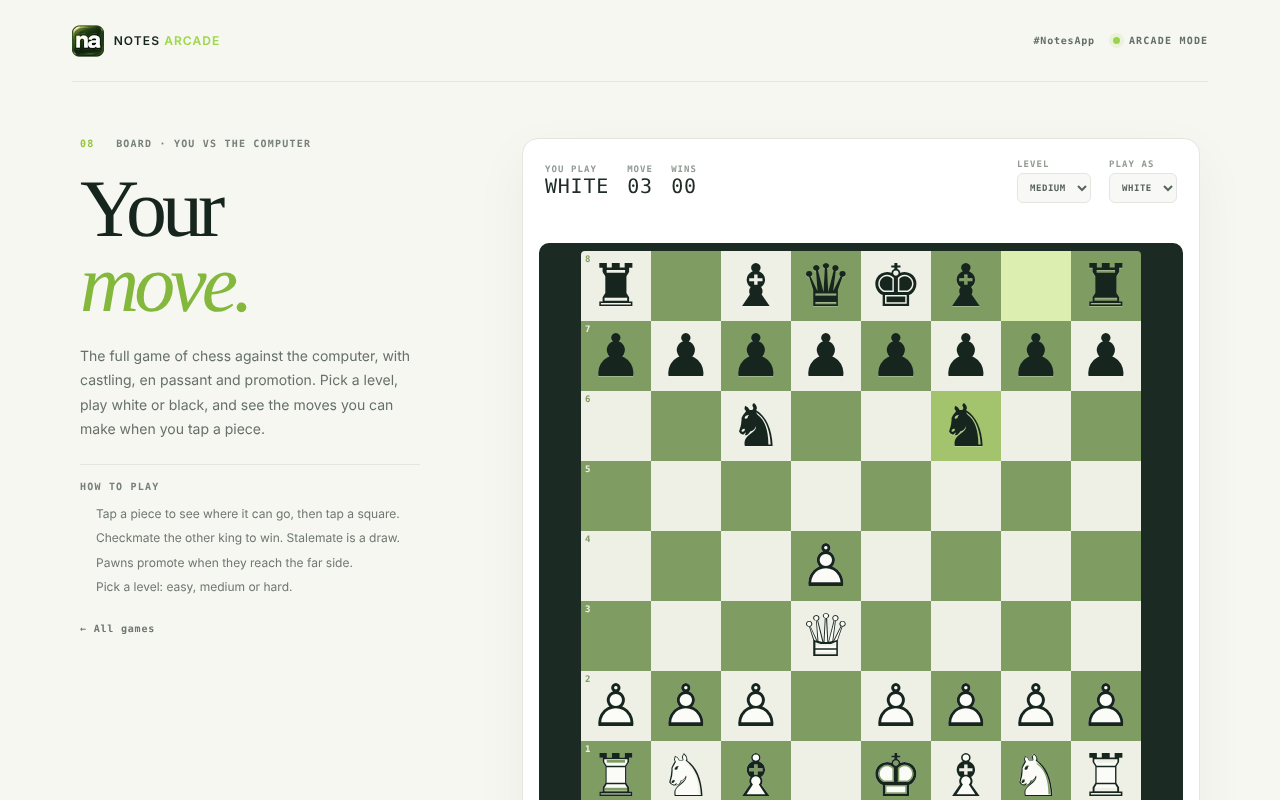
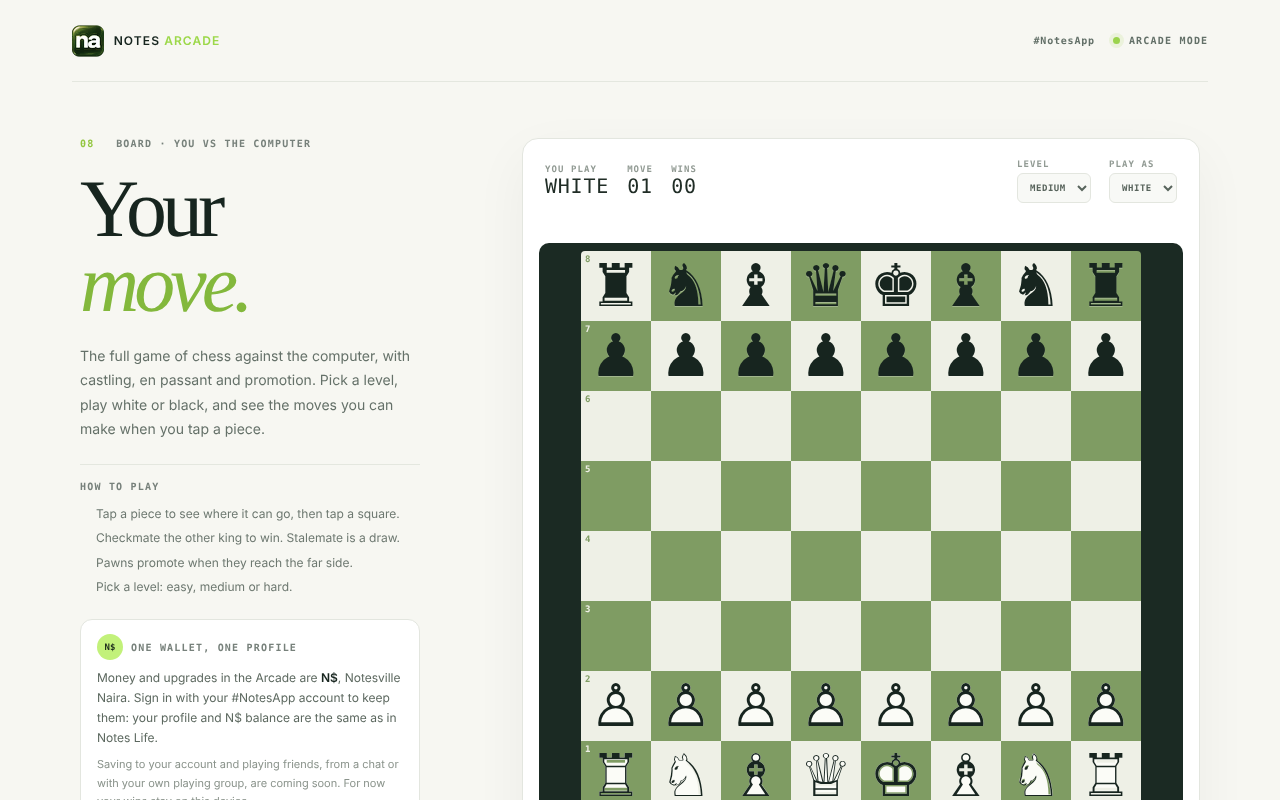
Notes Arcade: money in N$, one #NotesApp wallet and profile note
Claude-Session: https://claude.ai/code/session_01STQhMwWyavn5g4qzYGwLEX

diff --git a/lib/arcade/landlord.ts b/lib/arcade/landlord.ts
@@ -1,5 +1,5 @@
 // Naija Landlord: our own property-trading game on a 32-square loop of Nigerian neighbourhoods and markets.
-// Pure logic, no React or DOM. Money is in thousands of naira (1 = ₦1k). Every apply returns a new state.
+// Pure logic, no React or DOM. Money is in thousands of naira (1 = N$1k). Every apply returns a new state.
 
 export type Rng = () => number;
 
@@ -28,7 +28,7 @@ export type SquareKind = "start" | "plot" | "park" | "market" | "fortune" | "tax
 export type Square = { name: string; short: string; kind: SquareKind; city?: CityId; price?: number; rent?: number };
 
 const plot = (name: string, short: string, city: CityId, price: number, rent: number): Square => ({ name, short, kind: "plot", city, price, rent });
-// Park rent is ₦30k per park the owner holds: ₦30k, ₦60k or ₦90k.
+// Park rent is N$30k per park the owner holds: N$30k, N$60k or N$90k.
 const park = (name: string): Square => ({ name, short: "Danfo Park", kind: "park", price: 150, rent: 30 });
 
 // Clockwise from the top-left corner, cheap to dear. Corners: Start, Traffic Hold-up, Rest Stop, Tax office.
@@ -83,28 +83,28 @@ export type CardEffect =
 export type Card = { text: string; effect: CardEffect };
 
 export const MARKET_CARDS: Card[] = [
-  { text: "NEPA brought light all week: collect ₦50k", effect: { kind: "collect", amount: 50 } },
-  { text: "Tyre burst on Third Mainland Bridge: pay ₦30k", effect: { kind: "pay", amount: 30 } },
-  { text: "Your skit went viral: collect ₦100k", effect: { kind: "collect", amount: 100 } },
-  { text: "Owambe this weekend, aso ebi money: pay ₦40k", effect: { kind: "pay", amount: 40 } },
-  { text: "An old customer finally paid you: collect ₦60k", effect: { kind: "collect", amount: 60 } },
-  { text: "Generator needs servicing: pay ₦25k", effect: { kind: "pay", amount: 25 } },
+  { text: "NEPA brought light all week: collect N$50k", effect: { kind: "collect", amount: 50 } },
+  { text: "Tyre burst on Third Mainland Bridge: pay N$30k", effect: { kind: "pay", amount: 30 } },
+  { text: "Your skit went viral: collect N$100k", effect: { kind: "collect", amount: 100 } },
+  { text: "Owambe this weekend, aso ebi money: pay N$40k", effect: { kind: "pay", amount: 40 } },
+  { text: "An old customer finally paid you: collect N$60k", effect: { kind: "collect", amount: 60 } },
+  { text: "Generator needs servicing: pay N$25k", effect: { kind: "pay", amount: 25 } },
   { text: "Hop on a danfo back to Start: collect your salary", effect: { kind: "move", to: 0 } },
-  { text: "Plumber fixed every tap: pay ₦10k per flat", effect: { kind: "perFlat", amount: 10 } },
-  { text: "Bulk buy at Alaba for your tenants: pay ₦40k", effect: { kind: "pay", amount: 40 } },
+  { text: "Plumber fixed every tap: pay N$10k per flat", effect: { kind: "perFlat", amount: 10 } },
+  { text: "Bulk buy at Alaba for your tenants: pay N$40k", effect: { kind: "pay", amount: 40 } },
 ];
 
 export const FORTUNE_CARDS: Card[] = [
-  { text: "It's your birthday: everyone sends you ₦20k", effect: { kind: "each", amount: 20 } },
-  { text: "Group chat contribution: pay each player ₦15k", effect: { kind: "each", amount: -15 } },
-  { text: "Landlord of the year award: collect ₦80k", effect: { kind: "collect", amount: 80 } },
+  { text: "It's your birthday: everyone sends you N$20k", effect: { kind: "each", amount: 20 } },
+  { text: "Group chat contribution: pay each player N$15k", effect: { kind: "each", amount: -15 } },
+  { text: "Landlord of the year award: collect N$80k", effect: { kind: "collect", amount: 80 } },
   { text: "Heavy rain flooded the road: go back 3 squares", effect: { kind: "back", steps: 3 } },
   { text: "Gridlock on the expressway: go to Traffic Hold-up", effect: { kind: "holdup" } },
   { text: "A friend gives you a lift to Lekki", effect: { kind: "move", to: LEKKI } },
-  { text: "Bank alert! A client paid you ₦70k", effect: { kind: "collect", amount: 70 } },
-  { text: "Paint your flats for the festive season: pay ₦20k per flat", effect: { kind: "perFlat", amount: 20 } },
-  { text: "You won the jollof cook-off: collect ₦40k", effect: { kind: "collect", amount: 40 } },
-  { text: "Your Ariaria shoe order came through: collect ₦80k", effect: { kind: "collect", amount: 80 } },
+  { text: "Bank alert! A client paid you N$70k", effect: { kind: "collect", amount: 70 } },
+  { text: "Paint your flats for the festive season: pay N$20k per flat", effect: { kind: "perFlat", amount: 20 } },
+  { text: "You won the jollof cook-off: collect N$40k", effect: { kind: "collect", amount: 40 } },
+  { text: "Your Ariaria shoe order came through: collect N$80k", effect: { kind: "collect", amount: 80 } },
 ];
 
 export type Player = { name: string; colour: string; human: boolean; cash: number; pos: number; out: boolean; held: boolean };
@@ -148,12 +148,12 @@ export function createGame(_rng: Rng = Math.random, playerCount = 4): State {
     winner: null,
     endReason: null,
     lastCard: null,
-    log: ["New game. Everyone starts with ₦1,500k."],
+    log: ["New game. Everyone starts with N$1,500k."],
   };
 }
 
 export function formatNaira(k: number): string {
-  return `₦${k.toLocaleString("en-GB")}k`;
+  return `N$${k.toLocaleString("en-GB")}k`;
 }
 
 function clone(s: State): State {

diff --git a/components/games/ArcadeShell.tsx b/components/games/ArcadeShell.tsx
@@ -24,6 +24,7 @@ export default function ArcadeShell({ game, children }: { game: ArcadeGame; inde
             <summary>HOW TO PLAY</summary>
             <ul>{game.howTo.map((h) => <li key={h}>{h}</li>)}</ul>
           </details>
+          <ArcadeWalletNote />
           <a className="arc-back" href="/arcade">← All games</a>
         </div>
         <div className="arc-main">
@@ -122,5 +123,28 @@ export function ArcadeGallery({ game }: { game: ArcadeGame }) {
         .arc-gallery .arc-label { display:block; color:#929b94; font:600 9px ui-monospace,monospace; letter-spacing:.12em; }
       `}</style>
     </>
+  );
+}
+
+// Arcade money and the #NotesApp account (owner, 20 Nov 2026): every upgrade or money in the Arcade is N$ (Notesville Naira), saved
+// with a #NotesApp login, the same profile and wallet as Notes Life. Saving to the account and player-vs-player come later: until then
+// scores and wins stay in the browser, and this note says so.
+export function ArcadeWalletNote() {
+  return (
+    <div className="arc-wallet">
+      <p className="arc-wallet-title"><span className="arc-wallet-coin" aria-hidden>N$</span> ONE WALLET, ONE PROFILE</p>
+      <p>Money and upgrades in the Arcade are <strong>N$</strong>, Notesville Naira. Sign in with your #NotesApp account to keep them: your profile and N$ balance are the same as in Notes Life.</p>
+      <p className="arc-wallet-soon">Saving to your account and playing friends, from a chat or with your own playing group, are coming soon. For now your wins stay on this device.</p>
+      <a className="arc-wallet-link" href="/login?next=/arcade">SIGN IN WITH #NOTESAPP ↗</a>
+      <style jsx global>{`
+        .arc-wallet { max-width:340px; margin-top:22px; padding:14px 16px; border:1px solid #e3e6df; border-radius:12px; background:#fff; color:#5c685f; font-size:12px; line-height:1.65; }
+        .arc-wallet p { margin:0 0 8px; }.arc-wallet strong { color:#17251f; }
+        .arc-wallet-title { display:flex; align-items:center; gap:8px; color:#77817b; font:600 10px ui-monospace,monospace; letter-spacing:.12em; }
+        .arc-wallet-coin { display:inline-grid; place-items:center; width:26px; height:26px; border-radius:50%; background:#c2f17a; color:#20301e; font:800 9px ui-monospace,monospace; letter-spacing:0; }
+        .arc-wallet-soon { color:#8a938b; font-size:11px; }
+        .arc-wallet-link { color:#5f9a22; font:700 10px ui-monospace,monospace; letter-spacing:.08em; text-decoration:none; }.arc-wallet-link:hover { color:#17251f; }
+        @media(max-width:820px) { .arc-wallet { max-width:none; } }
+      `}</style>
+    </div>
   );
 }

diff --git a/components/games/ArcadeHome.tsx b/components/games/ArcadeHome.tsx
@@ -2,7 +2,7 @@
 
 import { ARCADE_GAMES } from "@/lib/arcade/catalogue";
 import { CITY_CARDS } from "@/lib/life/catalog";
-import { ArcadeFooter, ArcadeStyles, ArcadeTopbar } from "./ArcadeShell";
+import { ArcadeFooter, ArcadeStyles, ArcadeTopbar, ArcadeWalletNote } from "./ArcadeShell";
 
 // The Notes Arcade home: every game as a card with its screenshot, what it is and who plays. app/(arcade)/arcade/page.tsx.
 export default function ArcadeHome() {
@@ -12,7 +12,10 @@ export default function ArcadeHome() {
       <div className="arch-hero">
         <p className="arc-kicker"><span>{String(ARCADE_GAMES.length).padStart(2, "0")}</span> &nbsp; GAMES · FREE · IN YOUR BROWSER</p>
         <h1>Pass the time,<br /><em>play a game.</em></h1>
-        <p className="arc-description">Board games, card games and the classics, made for #NotesApp. No download, no sign-in: pick one and play.</p>
+        <div className="arch-hero-row">
+          <p className="arc-description">Board games, card games and the classics, made for #NotesApp. No download: pick one and play, and sign in to keep your N$ and progress.</p>
+          <ArcadeWalletNote />
+        </div>
       </div>
       <ul className="arch-grid">
         {ARCADE_GAMES.map((g, i) => (
@@ -78,6 +81,7 @@ export default function ArcadeHome() {
         .arch-hero { width:min(1120px,100%); margin:0 auto; padding:clamp(36px,7vh,72px) 0 32px; }
         .arch-hero h1 { margin:0; font:500 clamp(48px,6.4vw,84px)/.95 Georgia,'Times New Roman',serif; letter-spacing:-.06em; }.arch-hero h1 em { color:var(--arc-deep); font-weight:500; }
         .arch-hero .arc-description { max-width:460px; }
+        .arch-hero-row { display:flex; flex-wrap:wrap; align-items:flex-end; justify-content:space-between; gap:12px 32px; }.arch-hero-row .arc-wallet { max-width:420px; margin-top:0; }
         .arch-grid { display:grid; grid-template-columns:repeat(auto-fill,minmax(250px,1fr)); gap:18px; width:min(1120px,100%); margin:0 auto; padding:0 0 64px; list-style:none; }
         .arch-card { display:flex; flex-direction:column; height:100%; overflow:hidden; border:1px solid #e3e6df; border-radius:16px; background:#fff; color:inherit; text-decoration:none; box-shadow:0 12px 40px #17251f0a; transition:transform .15s,box-shadow .15s; }
         .arch-card:hover { transform:translateY(-3px); box-shadow:0 18px 55px #17251f14; }.arch-card:focus-visible { outline:2px solid var(--arc-deep); outline-offset:3px; }

diff --git a/tests/arcade/landlord.test.ts b/tests/arcade/landlord.test.ts
@@ -95,7 +95,7 @@ assert.equal(rentFor(r, ringRoad), 200);
 const paid = applyAction(r, { type: "roll" }, dice(4, 5));
 assert.equal(paid.players[0].cash, START_CASH - 200);
 assert.equal(paid.players[1].cash, START_CASH + 200);
-// Parks: ₦30k, ₦60k or ₦90k for one, two or three parks.
+// Parks: N$30k, N$60k or N$90k for one, two or three parks.
 const parks = BOARD.flatMap((b, i) => (b.kind === "park" ? [i] : []));
 assert.equal(parks.length, 3);
 assert.equal(rentFor(withOwner(g0, [parks[0]], 2), parks[0]), 30);
@@ -162,7 +162,7 @@ const card = (text: RegExp) => { const k = FORTUNE_CARDS.findIndex((c) => text.t
 const lift = applyAction(atFour, { type: "roll" }, dice(1, 2, card(/lift to Lekki/)));
 assert.equal(lift.players[0].pos, LEKKI);
 assert.equal(lift.phase, "buy");
-const bday = applyAction(atFour, { type: "roll" }, dice(1, 2, card(/birthday/))); // everyone sends ₦20k
+const bday = applyAction(atFour, { type: "roll" }, dice(1, 2, card(/birthday/))); // everyone sends N$20k
 assert.equal(bday.players[0].cash, START_CASH + 60);
 assert.equal(bday.players[2].cash, START_CASH - 20);
 
@@ -174,7 +174,7 @@ const lekkiOwned = withOwner(poor, [LEKKI], 1);
 lekkiOwned.players[0].pos = 26;
 const sold = applyAction(lekkiOwned, { type: "roll" }, dice(2, 3)); // 31 Lekki, rent 56
 assert.equal(sold.players[0].pos, LEKKI);
-assert.equal(sold.flats[ringRoad] + sold.flats[bodija], 1, "sold one flat (₦50k) to cover ₦56k");
+assert.equal(sold.flats[ringRoad] + sold.flats[bodija], 1, "sold one flat (N$50k) to cover N$56k");
 assert.equal(sold.players[0].cash, 10 + 50 - 56);
 const broke = structuredClone(lekkiOwned);
 broke.flats[ringRoad] = 0; broke.flats[bodija] = 0; broke.owner[ringRoad] = null; broke.owner[bodija] = null;

diff --git a/components/games/LandlordGame.tsx b/components/games/LandlordGame.tsx
@@ -42,14 +42,14 @@ function squareLabel(g: State, i: number): string {
 function squareInfo(g: State, i: number): string {
   const sq = BOARD[i];
   switch (sq.kind) {
-    case "start": return "Start: collect ₦200k salary each time you pass.";
+    case "start": return "Start: collect N$200k salary each time you pass.";
     case "market": case "fortune": return `${sq.name}: draw a card.`;
     case "tax": return "Tax office: pay 10% of your cash.";
     case "holdup": return "Traffic Hold-up: miss your next turn.";
     case "rest": return "Rest Stop: nothing happens. Breathe.";
     case "park": {
       const owner = g.owner[i];
-      const scale = "rent ₦30k, ₦60k or ₦90k for one, two or three parks";
+      const scale = "rent N$30k, N$60k or N$90k for one, two or three parks";
       if (owner === null) return `${sq.name}, a Danfo Park: ${formatNaira(sq.price ?? 0)}, ${scale}.`;
       return `${sq.name}, a Danfo Park: ${g.players[owner].name}'s, rent ${formatNaira(rentFor(g, i))} (${scale}).`;
     }
@@ -272,7 +272,7 @@ export default function LandlordGame() {
             <div className="arc-overlay">
               <p className="arc-overlay-kicker">YOU VS 3 COMPUTER PLAYERS</p>
               <h2>Naija Landlord</h2>
-              <p>Everyone starts with ₦1,500k. Buy plots, build flats, collect rent.</p>
+              <p>Everyone starts with N$1,500k. Buy plots, build flats, collect rent.</p>
               <button type="button" className="arc-btn" onClick={newGame} aria-label="Start the game">START</button>
             </div>
           )}

diff --git a/lib/changelog.ts b/lib/changelog.ts
@@ -20,6 +20,7 @@ export const CHANGELOG: Release[] = [
       { kind: "added", text: "Ncho Aka-Hausa, the harder Ncho: the seeds go round clockwise and the computer thinks further ahead." },
       { kind: "added", text: "Naija Landlord's board grows to 32 squares with the big markets: Ariaria in Aba, Nkwo Nnewi, Eke Osumenyi, the Lagos Trade Fair and Alaba International Market, plus Upper Iweka Park." },
       { kind: "added", text: "Every game page shows screenshots: one for each level, or a game from the start to later on." },
+      { kind: "added", text: "Arcade money is N$, Notesville Naira, as in Notes Life: Naija Landlord now counts in N$, and the Arcade says to sign in with your #NotesApp account, with one profile and N$ wallet shared with Notes Life. Saving to your account and playing friends are coming soon." },
       { kind: "changed", text: "The Arcade's top bar now says Notes Arcade, and its logo takes you to all the games. On arcade.naapp.tech each game has a short address, like arcade.naapp.tech/ludo." },
       { kind: "added", text: "More in the footer: Naija Exam Prep, Nana Tutor, NotesApp Sounds, Write a journal, Business books, the Nana AI portrait studio, Saved, Choose your interests, Kids corner and Install the app. Nana AI and Nana Jobs now sit under For you." },
     ],

diff --git a/HANDOVER.md b/HANDOVER.md
@@ -1236,6 +1236,11 @@ All of these are on the team hub board with departments and dates (`lib/team-see
     (9×9 ring) with Eastern markets (Ariaria Aba, Nkwo Nnewi, Eke Osumenyi), Lagos markets (Trade Fair, Alaba Int'l) and Upper Iweka
     Park; park rent is ₦30k per park owned. The Arcade home shows **Notes Life Abuja** (the city picker's "You are welcome" card with a
     real in-game shot inset) and Notes Life Lagos and Port Harcourt as coming soon, using `CITY_CARDS` pictures from `lib/life/catalog.ts`.
+    **Arcade money (owner, 20 Nov 2026): "every upgrade or money in the arcade is N$ and needs notesapp login to save, same profile or
+    wallet balance is shared".** For now only shown: Naija Landlord counts in N$, and `ArcadeWalletNote` (Arcade home and every game
+    page) says sign in to keep N$ and progress, one profile and wallet with Notes Life. **Next, not built yet:** enforce sign-in and save
+    to the account (scores, wins, N$ through the Notes Life wallet in `lib/life/server.ts`), and player vs player: invite from a
+    conversation in Messages and form playing groups.
 
 ## 3. How the work is done (please keep these)
 
